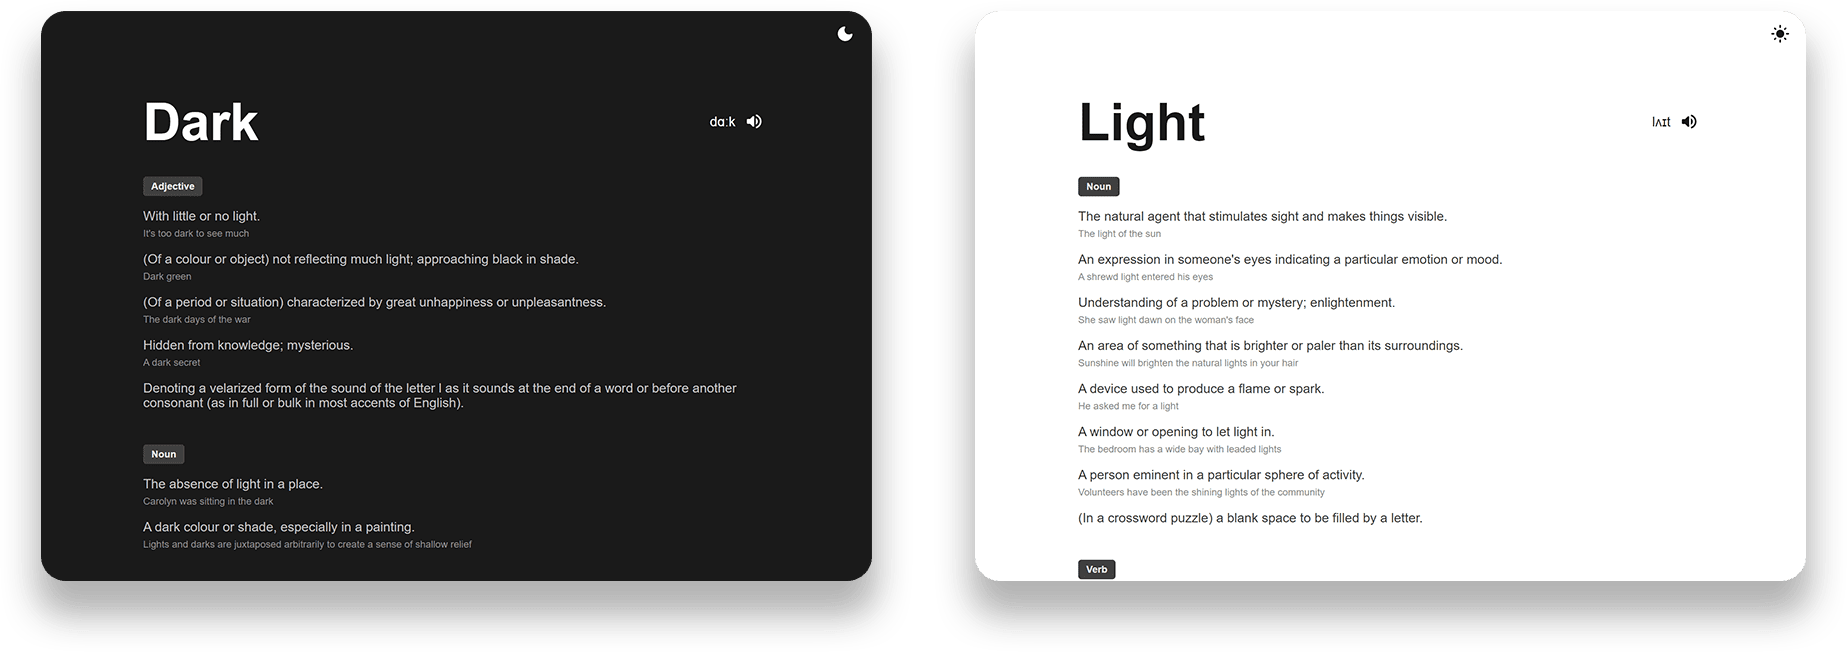
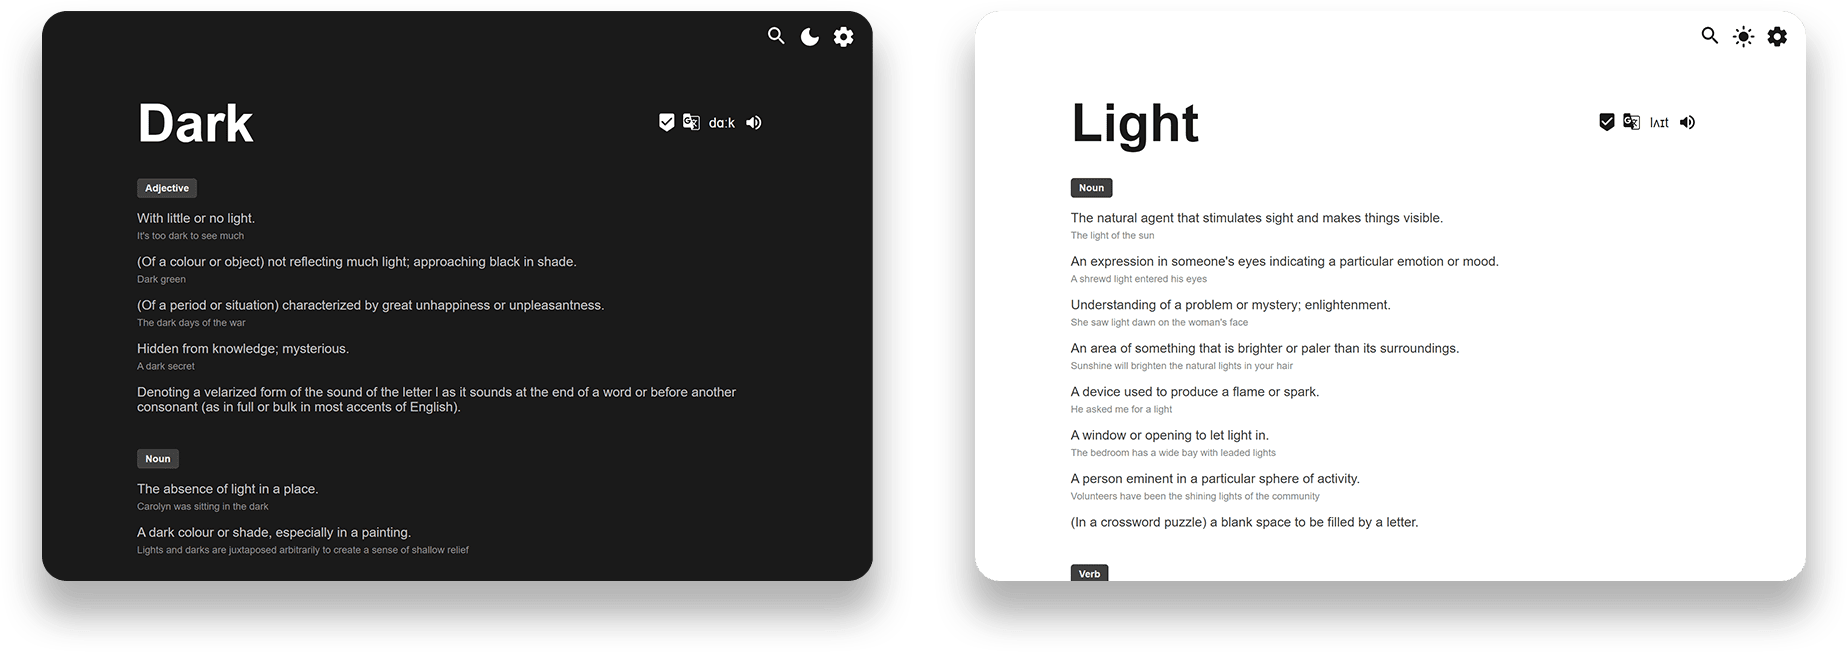
chore: release v1.0.0

diff --git a/README.md b/README.md
@@ -13,9 +13,16 @@
 ## Description
 
 Replace the new tab page with a new word definition and examples.
-You can also listen to the word pronunciation. Switch between Light & Dark themes that best suit your desktop.
 
-More features like _Words list management_ & _Favorite sites shortcuts_ will be added soon to give you more options on the new tab behavior.
+### Features:
+
+- Listen to word pronunciation
+- Switch between Light & Dark themes that best suit your desktop
+- Mark words as "learned" so they will not show up in your new tabs
+- Search for custom words definitions
+- Quickly look up word in Google translate
+
+More features like _Favorite sites shortcuts_ will be added soon to give you more options on the new tab behavior.
 
 ## Contribution
 
